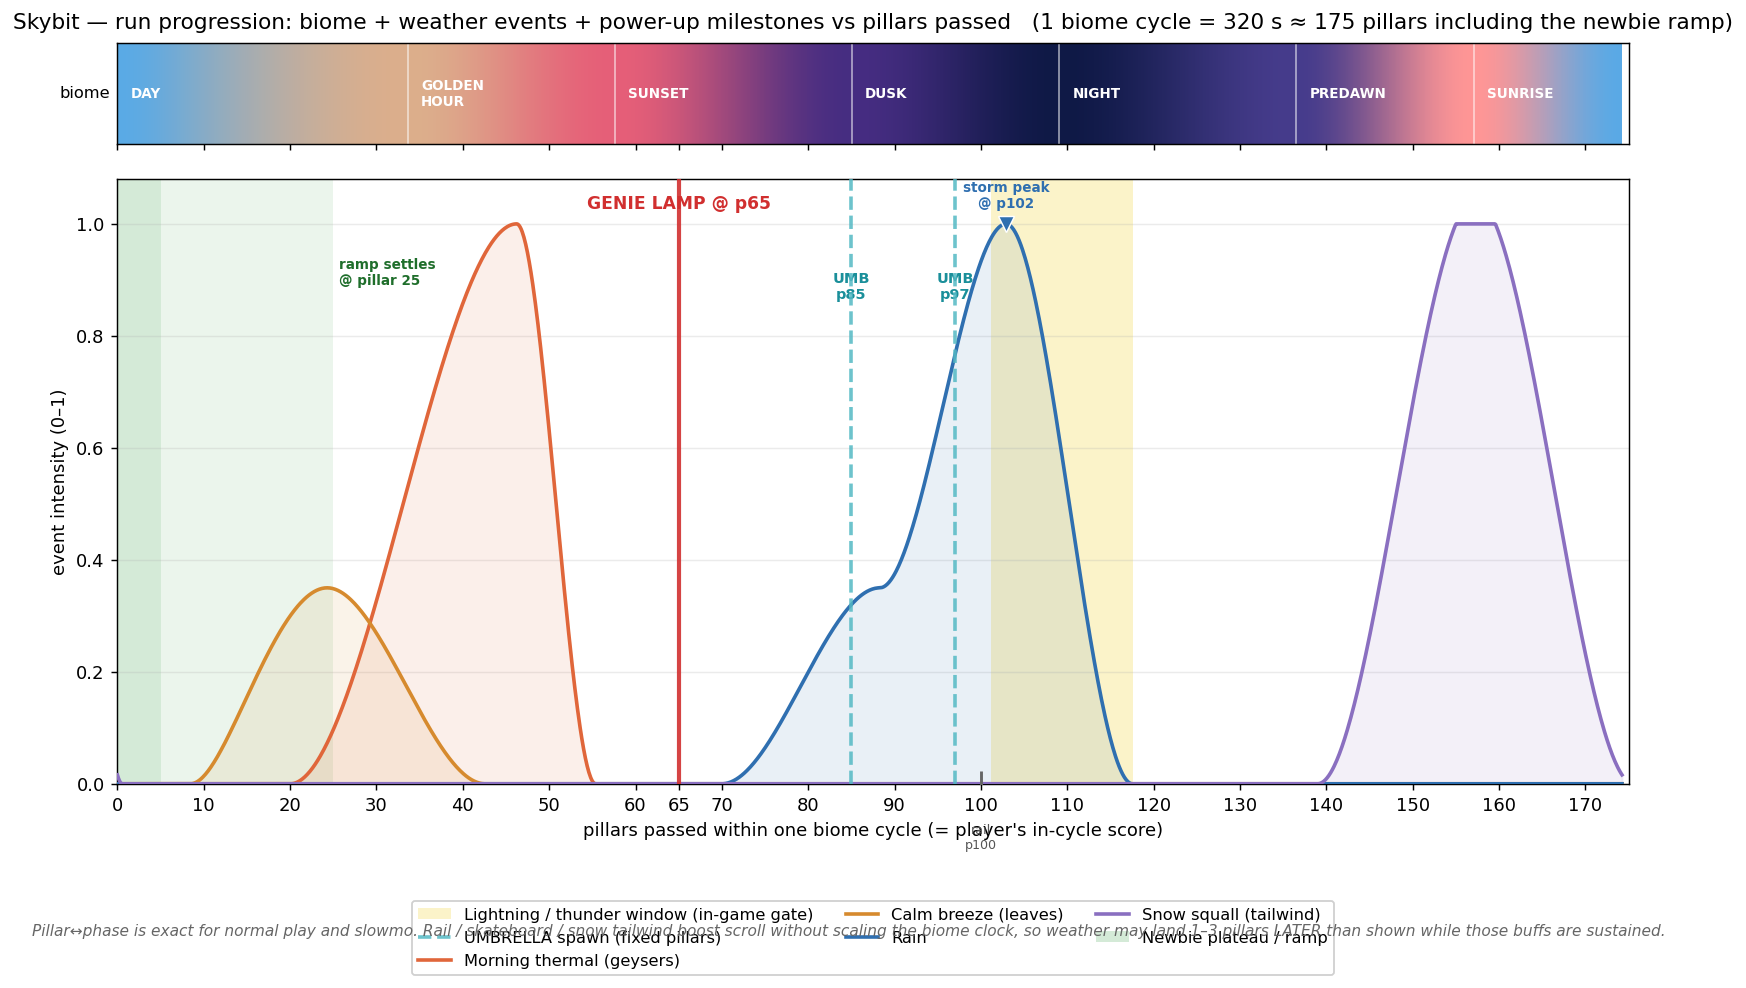
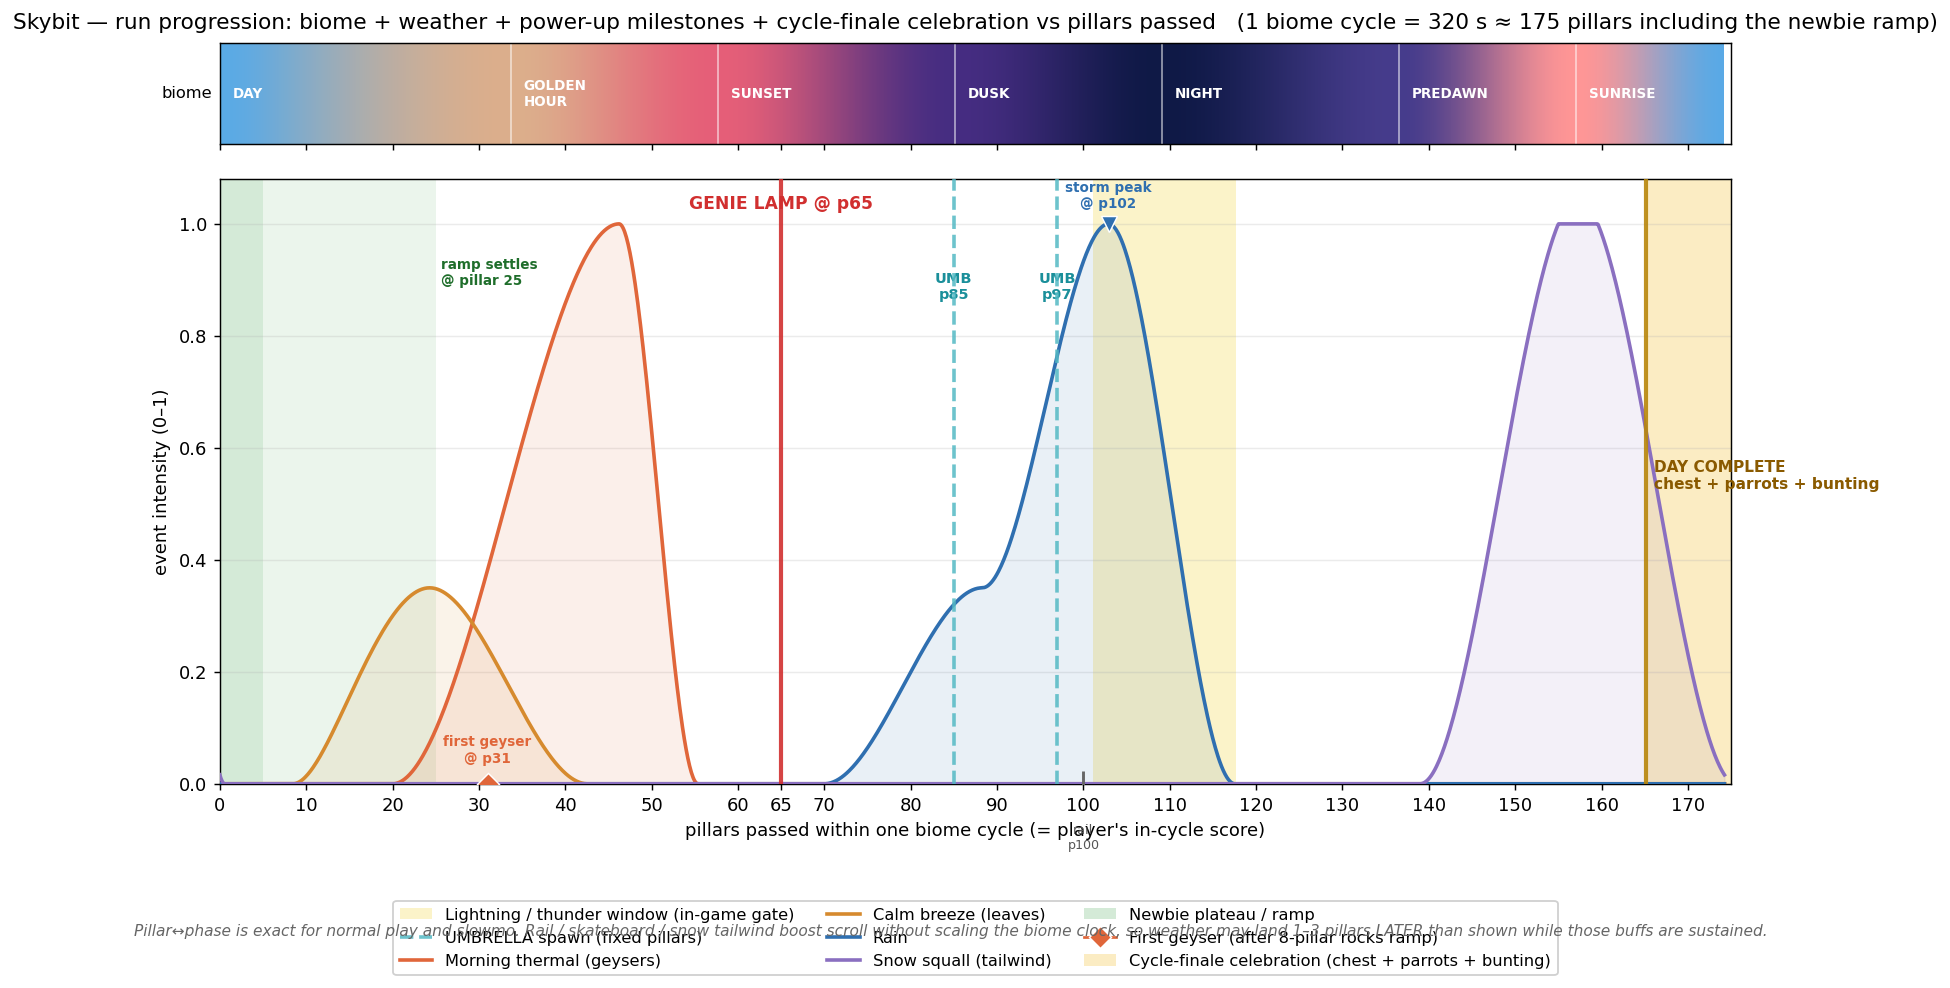
Run-progression chart: add cycle-finale celebration + first-geyser markers
Refresh tools/plot_progression_chart.py against the current code
(newbie ramp restored, biome opens at t=0, day-ramp shipped) and
add two markers the user explicitly asked for:

1. Cycle-finale celebration band. The chart already spanned exactly
   one biome cycle ending at the wrap, but didn't visually label
   the wrap moment. Find the first pillar where biome_phase climbs
   past CYCLE_FINALE_PHASE_HI = 0.95 and paint a gold band from
   there to the end of the chart, labeled "DAY COMPLETE -- chest +
   parrots + bunting". Same call-out style as the existing GENIE /
   UMBRELLA markers so the chart reads as one family.

2. First-geyser marker. The geyser system has an 8-pillar thermal
   warm-up telegraph (rocks-only) before the guaranteed first
   geyser fires on the 9th thermal-active pillar. Walk the pillar
   samples in order, counting how many cross
   ROCK_SPAWN_THRESHOLD = 0.02; pin a small orange diamond at the
   (GEYSER_RAMP_PILLARS + 1)th. With the newbie ramp slowing the
   first ~25 pillars, this lands around p25 -- the moment the
   player sees the first geyser jet.

Math is unchanged from the existing build_time_for_pillar() helper,
which already mirrors World.update's exact loop (newbie ramp ease-
out, seeded-first-pillar travel, inter-pillar dwell = spacing /
scroll). Output: docs/progression/run_progression.png. One biome
cycle currently runs 175 pillars including the newbie ramp.

https://claude.ai/code/session_015eWdab4GNRiXFWxdLQ8CG2

diff --git a/tools/plot_progression_chart.py b/tools/plot_progression_chart.py
@@ -10,6 +10,12 @@ matplotlib idiom — extended with:
     per storm while raining — RAIN-tied, not pillar-tied)
   * the production GENIE one-shot marker at pillar
     ``config.LATE_GAME_PILLAR``
+  * the cycle-finale celebration band at the right edge — chest +
+    day-complete banner + parrot crowd + bunting + balloons fire when
+    ``biome_phase`` wraps past ``CYCLE_FINALE_PHASE_HI``
+  * a first-geyser marker — the 9th pillar where thermal intensity
+    crosses ``ROCK_SPAWN_THRESHOLD`` (= the 8-pillar rocks-only
+    telegraph followed by the guaranteed first geyser)
   * a row of thin grey ticks at the bottom marking pillar-score gates
     (``POWERUP_SCORE_GATES`` + ``POWERUP_REPLACED_AT``) so the rail /
     grow / lottery / megamagnet milestones land in context.
@@ -160,8 +166,8 @@ def main() -> None:
                     va="center", ha="left", fontweight="bold")
 
     ax_sky.set_title(
-        f"Skybit — run progression: biome + weather events + power-up "
-        f"milestones vs pillars passed   "
+        f"Skybit — run progression: biome + weather + power-up "
+        f"milestones + cycle-finale celebration vs pillars passed   "
         f"(1 biome cycle = {CYCLE:.0f} s ≈ {max_pillars} pillars "
         f"including the newbie ramp)",
         fontsize=12, pad=8)
@@ -248,6 +254,58 @@ def main() -> None:
                 textcoords="offset points", xytext=(0, 9),
                 ha="center", fontsize=7.5, color="#2f6fb0",
                 fontweight="bold")
+
+    # ── First geyser marker ────────────────────────────────────────────
+    # Geysers don't fire until 8 pillars of thermal warm-up rocks have
+    # telegraphed the event (GEYSER_RAMP_PILLARS). Walk the pillar
+    # samples in order, counting how many cross ROCK_SPAWN_THRESHOLD;
+    # the (GEYSER_RAMP_PILLARS+1)th carries the forced first geyser.
+    rock_threshold = config.ROCK_SPAWN_THRESHOLD
+    ramp_target = config.GEYSER_RAMP_PILLARS + 1
+    thermal_pillars = 0
+    first_geyser_pillar = None
+    for k in range(max_pillars):
+        phase_k = biome.phase_for_time(time_for_pillar[k] % CYCLE)
+        if weather.thermal_intensity(phase_k) > rock_threshold:
+            thermal_pillars += 1
+            if thermal_pillars >= ramp_target:
+                first_geyser_pillar = k
+                break
+    if first_geyser_pillar is not None:
+        ax.plot([first_geyser_pillar], [0.0], marker="D",
+                color="#e0663a", markersize=9, markeredgecolor="white",
+                markeredgewidth=0.8, zorder=5,
+                label="First geyser (after 8-pillar rocks ramp)")
+        ax.annotate(f"first geyser\n@ p{first_geyser_pillar}",
+                    (first_geyser_pillar, 0.0),
+                    textcoords="offset points", xytext=(0, 12),
+                    ha="center", fontsize=7.5, color="#e0663a",
+                    fontweight="bold")
+
+    # ── Cycle-finale celebration band ──────────────────────────────────
+    # The day/night phase climbs past CYCLE_FINALE_PHASE_HI = 0.95 and
+    # rolls through ~1.0 → ~0.0; the wrap fires inside world.update,
+    # spawning the chest + day-complete banner + parrot crowd + bunting
+    # + balloon cluster. Find the first pillar whose phase is in the
+    # HI..1.0 window — everything from there to the end of the chart
+    # is the celebration tail.
+    finale_hi = config.CYCLE_FINALE_PHASE_HI
+    finale_pillar = None
+    for k, p in enumerate(phases):
+        if p > finale_hi:
+            finale_pillar = pillars[k]
+            break
+    if finale_pillar is not None:
+        ax.axvspan(finale_pillar, max_pillars, color="#f5c33b",
+                   alpha=0.30, linewidth=0, zorder=1,
+                   label="Cycle-finale celebration (chest + parrots + bunting)")
+        ax.axvline(finale_pillar, color="#b8860b", linewidth=2.3,
+                   alpha=0.9, zorder=4)
+        ax.annotate("DAY COMPLETE\nchest + parrots + bunting",
+                    (finale_pillar, 0.55),
+                    textcoords="offset points", xytext=(4, 0),
+                    ha="left", va="center", fontsize=8.5,
+                    fontweight="bold", color="#8a5a00")
 
     # ── Power-up score gates (thin grey ticks at the bottom) ───────────
     gates = sorted({
